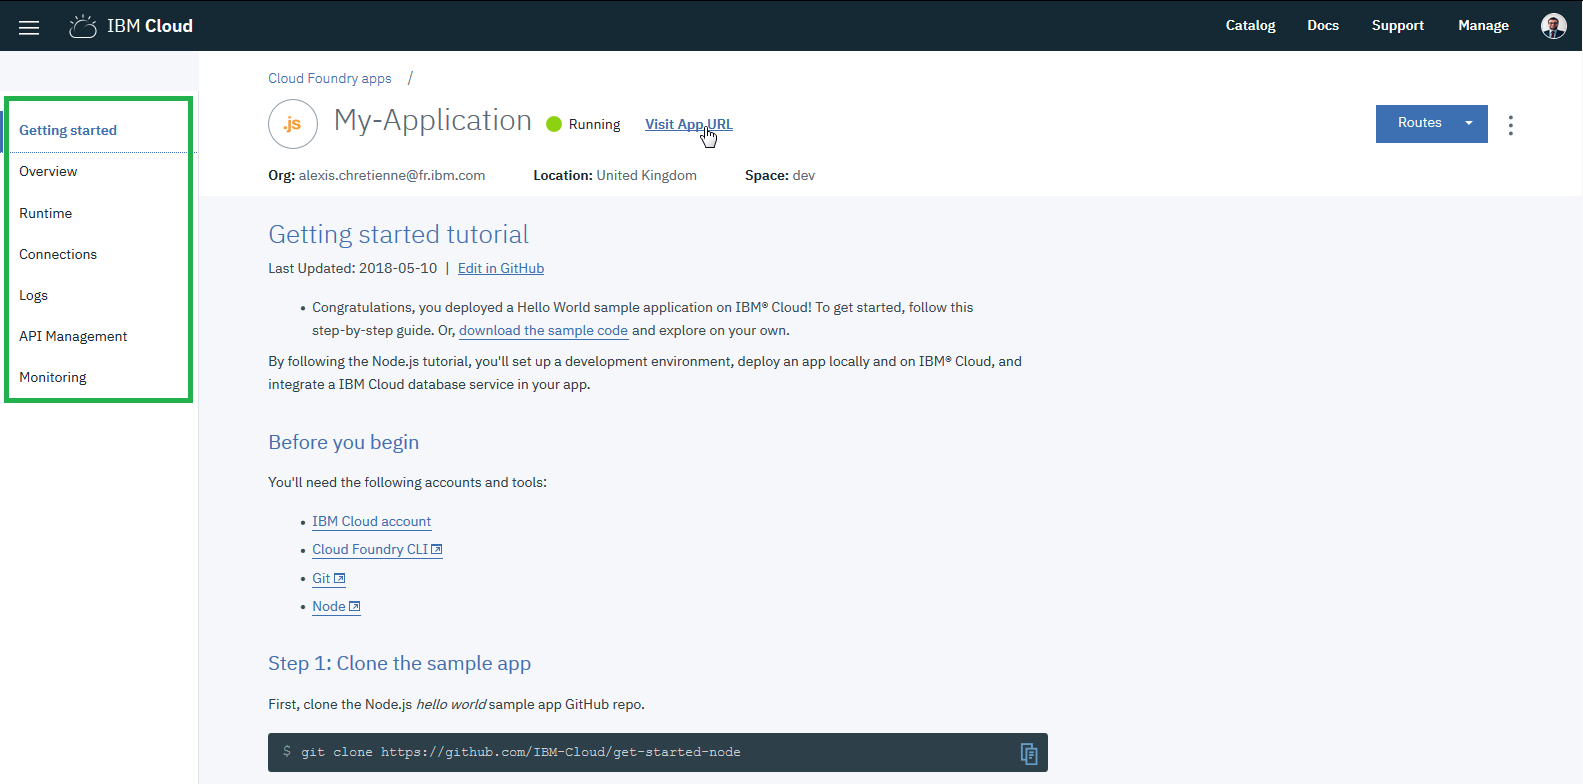
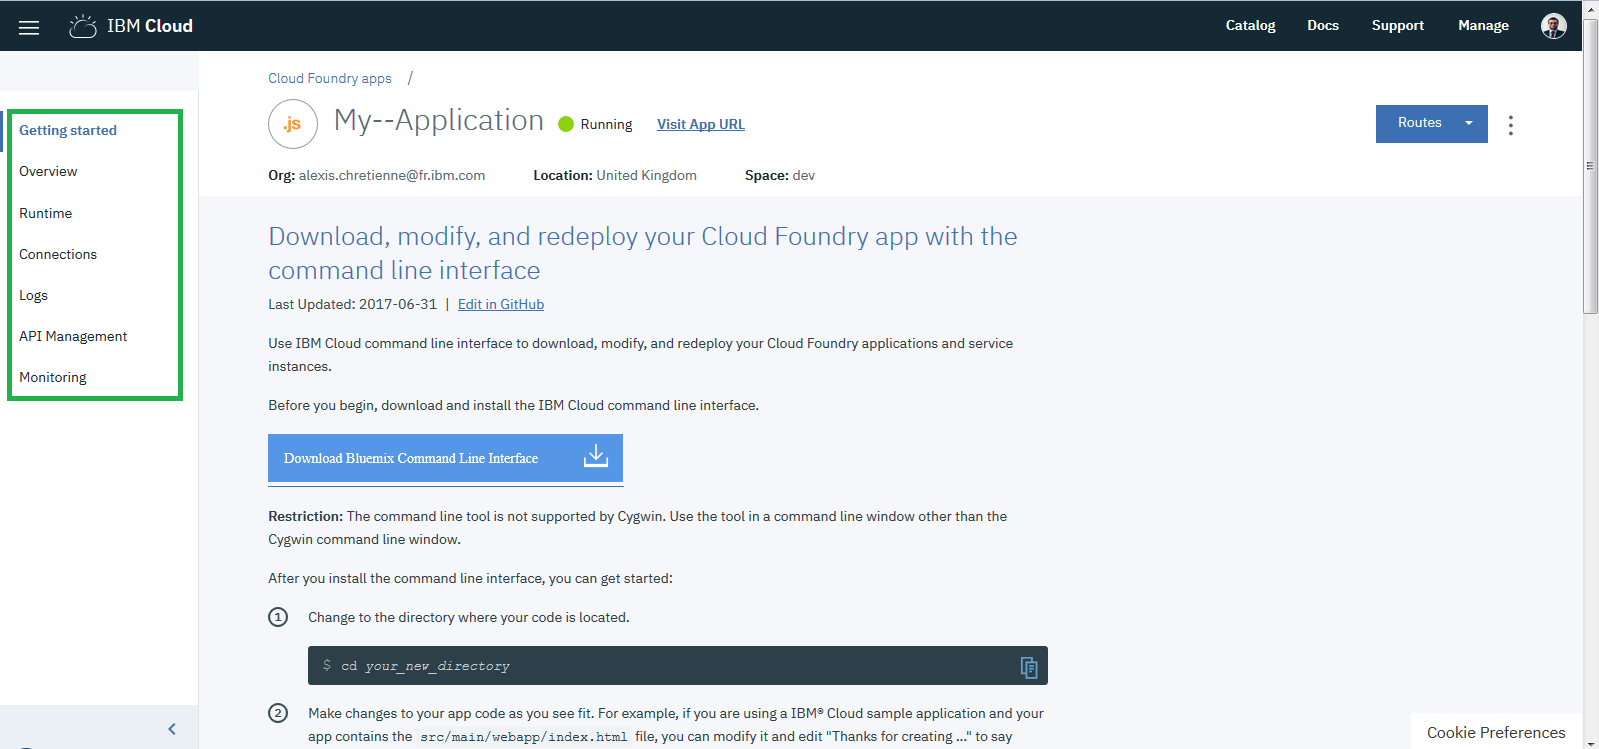
update README

diff --git a/README.md b/README.md
@@ -211,25 +211,22 @@ A quick banking application has been developed in order to help you to start cod
 4. 	Wait for the Node.js Runtime creation.
 
 5. 	Once created, explore this panel to be familiar with it.
-	![alt text](images/nodejsAppReady.png "Node.js Main Panel")
+	![alt text](images/gettingStartedIBMCloud1.png "Node.js Main Panel")
 	* Click **Visit App URL**. The default Node.js Project (Hello World) has been provided.
 	* Explore each menu on the left panel to understand the Runtime, connections, logs, etc.
- 
-6.	Follow the **Getting Started** page to learn how to edit, pull and push the provided Hello World application from your computer to your Node.js Runtime in Cloud.
-	* Read **Before you begin**.
-	* Read **Step 1: Clone the sample app**.
-	* Read **Step 2: Run the app locally**.
-	* Read **Step 3: Prepare the app for deployment**.
-	* Read **Step 4: Deploy the app**.
+	* Read the **Getting Started**.
+
+6. Clone the project from Git https://github.com/IBM-Cloud/get-started-node.git
 
 7.	Edit the cloned Hello World sample application on your laptop to integrate the Financial application files:
-	* Copy the *js* folder from the financial application into the *public* folder.
-	* Remove the *public/stylesheets** folder to delete the default CSS style.
-	* Copy the *css* folder from the financial application into the *public* folder.
-	* Replace the *index.html* from the financial application to the *public* folder.
+	* Copy the *js* folder from the financial application into the *views* folder.
+	* Remove the *views/stylesheets** folder to delete the default CSS style.
+	* Copy the *css* folder from the financial application into the *views* folder.
+	* Replace the *index.html* from the financial application to the *views* folder.
+	* Edit the *manifest.yml* to change the app name and delete the random route line.
 	![alt text](images/editNodeJSProjectFinancial.png "Edit the Node.js project")
 	
-8.	Re-Deploy the new code to the Node.js Runtime in Cloud using the **bx app push** command you learned in step 6.
+8.	Re-Deploy the new code to the Node.js Runtime in Cloud using the **bx login** and **bx app push** command you read in step 5.
 
 9.	Re-Click **Visit App URL** on Cloud.
 	![alt text](images/nodejsAppRedeployCloud.png "Node.js Main Panel")
@@ -238,7 +235,7 @@ The banking application is now hosted in Cloud and use the banking API.
 
 ---
 
-:thumbsup: Congratulations! You have successfully developed your first financial application in Cloud.
+:thumbsup: Congratulations! You have successfully developed your first banking application in IBM Cloud.
 
 ---
 
